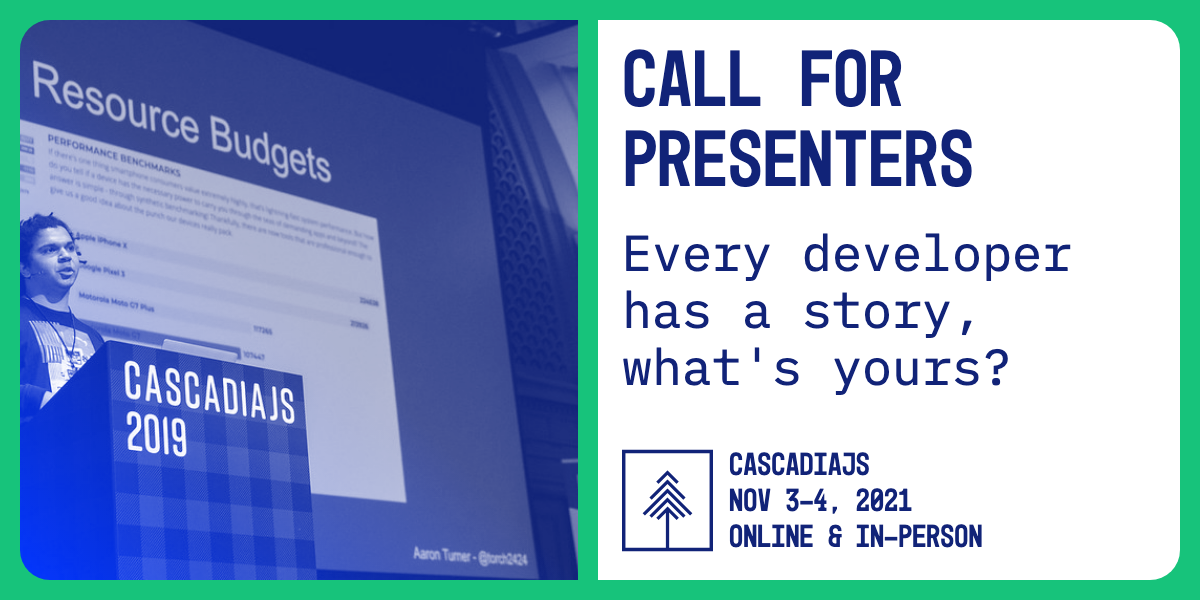
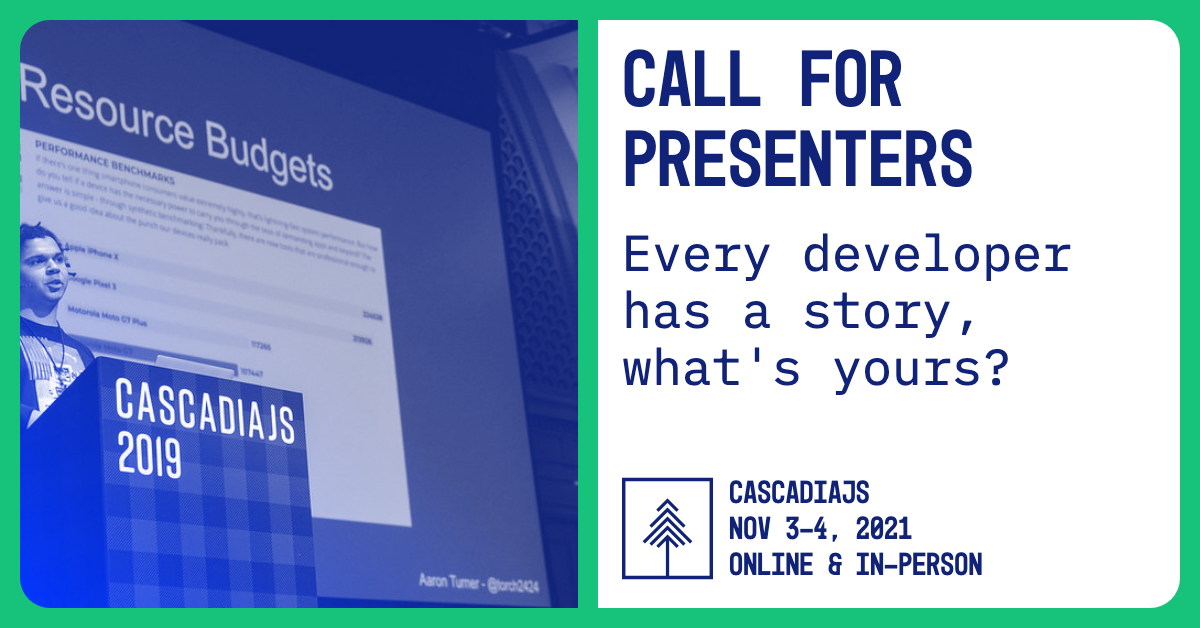
tweaked the aspect ratio for social sharing images to 1200x628

diff --git a/public/styles/main.css b/public/styles/main.css
@@ -770,7 +770,7 @@ a.js-topic:hover {
 }
 
 #social-image {
-    height: 560px;
+    height: 588px;
 	width: 600px;
 	margin: 20px;
     border-radius: 30px 0 0 30px;
@@ -782,7 +782,7 @@ a.js-topic:hover {
     filter:grayscale(100%);
     border-radius: 30px 0 0 30px;
     object-fit: cover;
-    height: 560px;
+    height: 588px;
 	width: 600px;
 }
 

diff --git a/scripts/create-social-sharing-images.js b/scripts/create-social-sharing-images.js
@@ -19,7 +19,7 @@ async function createImages() {
 
   // set-up headless browser
   let browser
-  let height = 600
+  let height = 628
   let width = 1200
   let deviceScaleFactor = 1
 
